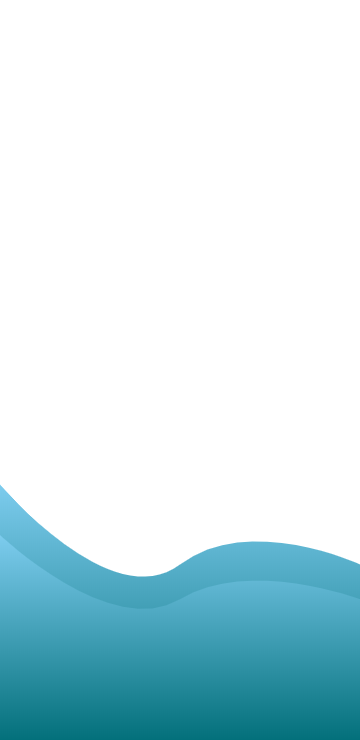
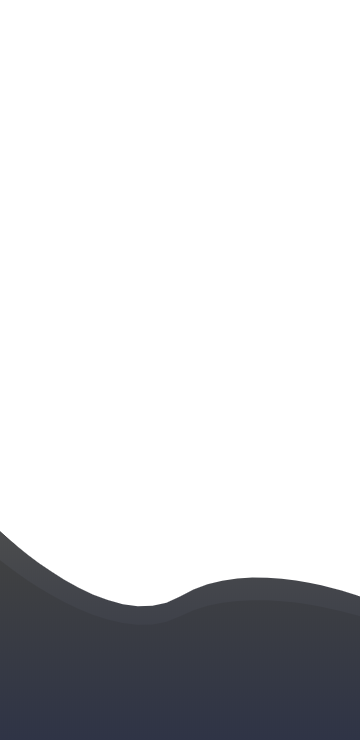
0.01

Changed region(s): [[0.0, 0.6527, 1.0, 1.0]]

diff --git a/src/principal/principal.css b/src/principal/principal.css
@@ -416,18 +416,20 @@ float: right;
 display: none;
   }
 
-  @media  screen and (max-width: 750px) {
+  @media  screen and (max-width: 750px )  {
     .Quienes{
       background-image: url(../assets/img/Group26.png);
       background-size: cover;
       background-position-y: 100%;
       background-position-x: 100%;
       background-repeat: no-repeat;
-      height: 100vh;
-  padding-top: 30px;
+     min-height: 100vh;
+ 
   display: flex;
+  
 flex-direction: column;
-align-items: center;
+align-items: flex-end;
+align-content: center;
 justify-content: center;
     }
     .Producto{
@@ -453,28 +455,38 @@ justify-content: center;
  
    
     .SeccQuienes{
-    height: 50%;
+    height: 40%;
     width:  100%;
     
-    align-self: center;
+    
     justify-content: center;
+  
+    
     
     }
     .SeccLogo {
-    height: 50%;
+      
+    height: 40%;
+    width: 100%;
   
-    width:  100%;
+    
     display: grid;
     place-items: center;
- position: absolute;
- z-index: -1;
+
+
     
+    }
+    .img1{
+      top: 0;
+      height: 300px;
+      width: auto;
     }
     .Logo{
       height: 50px;
       width: 50px;
     
     }
+   
     .ButtonMenu{
       padding: 10px;
       cursor: pointer;
@@ -507,11 +519,11 @@ justify-content: center;
 
         }
   }
-  @media  screen and (max-width: 400px) {
+  @media  screen and (max-width: 400px ) {
    
    
     .SeccQuienes{
-    height: 50%;
+    height: 60%;
     width:  100%;
     
     align-self: center;
@@ -519,13 +531,17 @@ justify-content: center;
     
     }
     .SeccLogo {
-    height: 50%;
+    height: 40%;
   
     width:  100%;
     display: grid;
     place-items: center;
  
     
+    }
+    .img1{
+      height: 200px;
+      width: auto;
     }
     .Logo{
       height: 50px;
@@ -539,12 +555,14 @@ justify-content: center;
       display: initial;
         }
         .Menu{
-          background-color: var(--back-burger);
+          background-color: var(--main-menu);
         }
+       
+        
         
         .OptionShow{
           position: fixed;
-          width: 40%;
+          width: 60%;
           background-color: rgb(32, 32, 32);
           padding-top: 60px;
           height: 100%;
@@ -566,6 +584,7 @@ justify-content: center;
           background-size: cover;
           background-position-y: 100%;
           background-repeat: no-repeat;
+          min-height: 100vh;
         }
         .Producto{
          background-image: url(../assets/img/Group27.png);
@@ -622,12 +641,64 @@ align-items: center;
 
 }
 .SeccTitle1{
-  font-size: 30px;
+  font-size: 28px;
 }
 .Desc{
-  font-size: 15px;
+  font-size: 18px;
 }
         
     
   }
+  @media screen and (orientation:landscape) {
+    .Quienes{
+      background-image: url(../assets/img/Grupo\ 21.png);
+      background-size: cover;
+      background-position-y: 100%;
+      background-position-x: 100%;
+      background-repeat: no-repeat;
+     height: 100vh;
+     width: 100vw;
  
+  display: flex;
+  
+flex-direction: row;
+align-items: flex-end;
+align-content: center;
+justify-content: center;
+
+    }
+    .SeccQuienes{
+      height: 100%;
+      width:  65%;
+      
+      
+      justify-content: center;
+    
+      
+      
+      }
+      .SeccLogo {
+        
+      height: 100%;
+      width: 35%;
+    
+      
+      display: grid;
+      place-items: center;
+  
+  
+      
+      }
+      .img1{
+        top: 0;
+        height: auto;
+        width: 100%;
+      }
+      
+.SeccTitle1{
+  font-size: 26px;
+}
+.Desc{
+  font-size: 16px;
+}
+  }

diff --git a/src/productos/producto.css b/src/productos/producto.css
@@ -227,8 +227,15 @@ text-overflow: ellipsis;
           height: 90%;
           width: 100%;
         
-            background-color: #c28eb700;
+           
         }
+
+      .Card{
+margin-bottom: 15px;
+      }
+      .Cards{
+        margin-bottom: 15px;
+      }
         .innerContainer{
           height: 90%;
           width: 100%;

diff --git a/src/css/paleta.css b/src/css/paleta.css
@@ -5,8 +5,10 @@
     --main-fondoCard:#fdfdfd;
     --main-menu:#ffffff;
     --main-btnInfo:#c040d1;
+    --glas-card:#ffffffa9;
     --active-menu:#f03e6a;
     --side-bar:#131313;
-    --back-burger:#019796;
+    --back-burger:#7b28a1;
+    --fondo-fig:#2F3446;
   }
   
